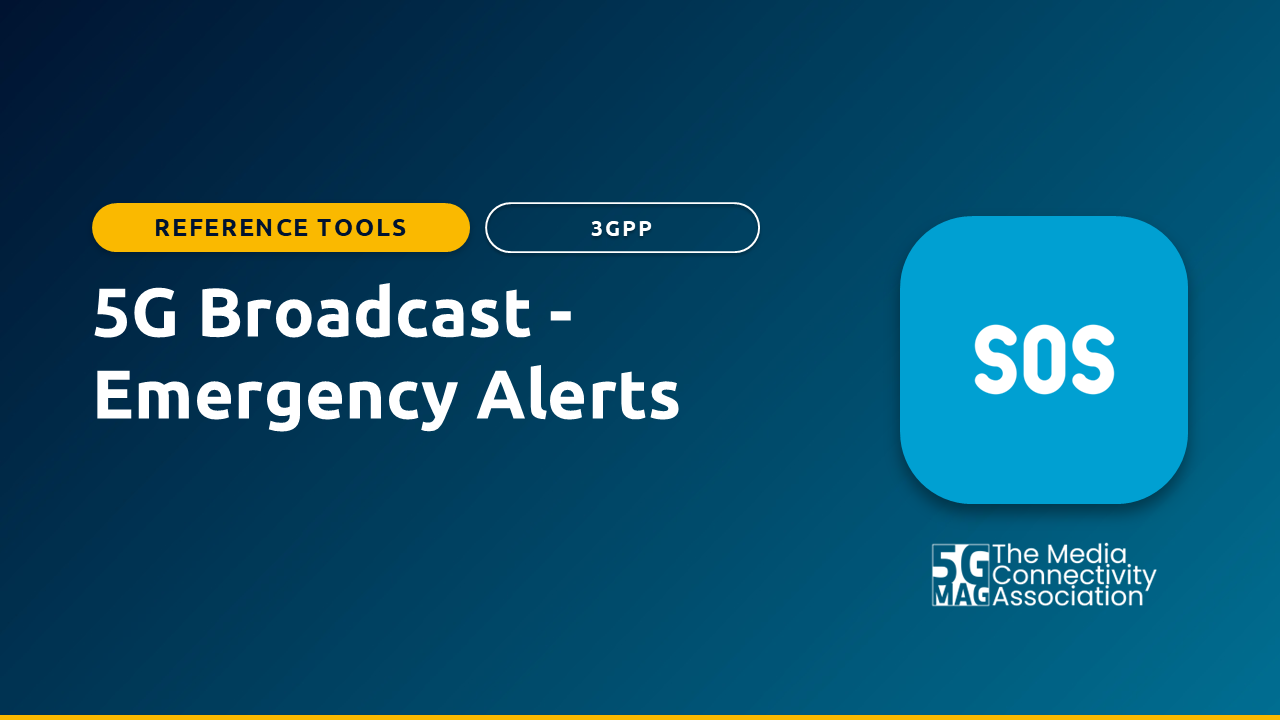
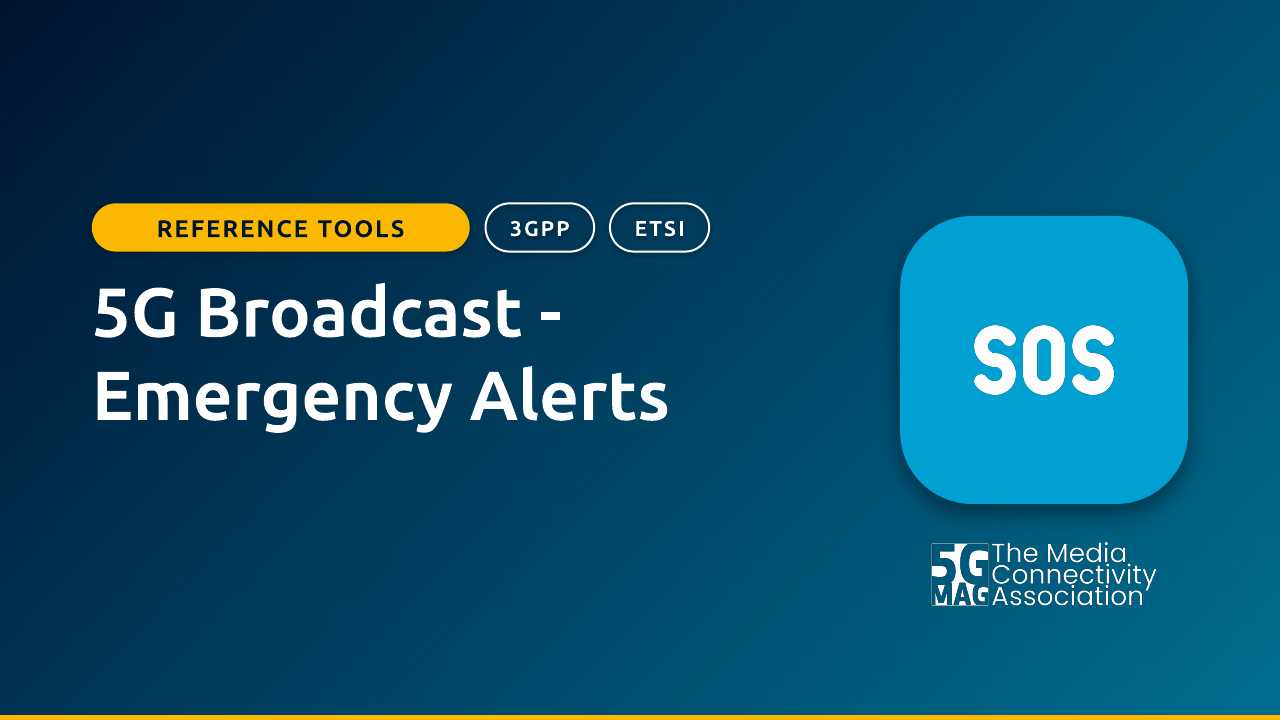
content: refresh every project's cover image and add the five missing
Problem
  The project title cards (static/assets/images/projects/<slug>.png), shown
  beside each Technology page's overview and in the homepage's release
  cards, predate the current taxonomy: "Multimedia Delivery Protocols" (old
  name), standards-body pills missing (5GMS, Avatar, DVB-I, Content
  Delivery, the three testbeds) or wrong (3GPP RAN), and old icons (Beyond
  2D, 3GPP RAN). NPN, NTN, RTC, TSC and Dynamic Mesh Coding had no card,
  and their Technology pages no cover. [code-derived: taxonomy.json name,
  sdos and icon fields against the images]

Basis
  No specification governs this. Each card is the project's cover slide in
  the 5G-MAG Complete Deck, whose name, family pill, standards-body pills
  and icon are generated from src/data/taxonomy.json.

Raised by
  User report: project images outdated or missing on the project pages.

Change
  All 22 cards re-exported at 1280x720 from that deck. multimedia.png
  renamed content-delivery.png (only taxonomy.json, releases.json and
  /tech/content-delivery referenced it). taxonomy.json gains image for the
  five projects without one; releases.json's copy of that one path updated
  so the homepage does not show a missing image before the next data run.
  NPN, NTN, RTC, TSC and Dynamic Mesh Coding pages use the same two-column
  intro with the cover as their sibling pages (text unchanged, re-indented
  only: git diff -w). Beyond 2D's Technology doc shows its cover below the
  intro.

Verification
[…]

diff --git a/src/pages/tech/ntn/index.js b/src/pages/tech/ntn/index.js
@@ -1,4 +1,5 @@
 import Link from '@docusaurus/Link';
+import useBaseUrl from '@docusaurus/useBaseUrl';
 import Layout from '@theme/Layout';
 import HubHero from '@site/src/components/HubHero';
 import ProjectDestinationCards from '@site/src/components/ProjectDestinationCards';
@@ -43,6 +44,7 @@ const SATELLITE_ICON = (
 const ACCENT = '#1a9e93';
 
 export default function NTN() {
+  const coverImg = useBaseUrl('/assets/images/projects/ntn.png');
   return (
     <Layout
       title={PROJECT_NAME}
@@ -61,33 +63,40 @@ export default function NTN() {
       <main>
         <section className={styles.section}>
           <div className="container">
-            <div style={{ maxWidth: '820px', margin: '0 auto', fontSize: '1.1rem', lineHeight: 1.7 }}>
-              <p>
-                Non-Terrestrial Networks (NTN) extend 5G coverage via satellite (geostationary GEO and
-                low Earth orbit LEO) and high-altitude platform stations (HAPS), standardised in 3GPP
-                Release 17. For media distribution, NTN is not a standalone system: it is a delivery
-                infrastructure layer on top of which existing 5G services such as MBS Multicast and MBS
-                Broadcast can be deployed. 5G-MAG&apos;s work in this area focuses on the specific
-                challenges NTN introduces: propagation delay, Doppler effects, handover between
-                satellite beams, and device mobility across terrestrial and non-terrestrial segments.
-              </p>
-              <p>
-                <strong>No dedicated reference tool exists for NTN.</strong> The 5G-MAG MBS reference
-                tools (for Multicast and Broadcast) are the relevant software for NTN deployment
-                scenarios — see{' '}
-                <Link to="/tech/5g-mbs">5G Multicast Broadcast Services (MBS)</Link>. For satellite broadcast
-                delivery using the FeMBMS (5G Broadcast) waveform, see{' '}
-                <Link to="/tech/5g-broadcast">5G Broadcast - TV and Radio Services</Link>.
-              </p>
-              {PROJECT.sdos?.length > 0 && (
-                <div className={styles.capabilityTags}>
-                  {PROJECT.sdos.map((s) => (
-                    <span key={s} className={styles.capabilityTag}>
-                      {s}
-                    </span>
-                  ))}
-                </div>
-              )}
+            <div className={styles.introGrid}>
+              <div style={{ fontSize: '1.1rem', lineHeight: 1.7 }}>
+                <p>
+                  Non-Terrestrial Networks (NTN) extend 5G coverage via satellite (geostationary GEO and
+                  low Earth orbit LEO) and high-altitude platform stations (HAPS), standardised in 3GPP
+                  Release 17. For media distribution, NTN is not a standalone system: it is a delivery
+                  infrastructure layer on top of which existing 5G services such as MBS Multicast and MBS
+                  Broadcast can be deployed. 5G-MAG&apos;s work in this area focuses on the specific
+                  challenges NTN introduces: propagation delay, Doppler effects, handover between
+                  satellite beams, and device mobility across terrestrial and non-terrestrial segments.
+                </p>
+                <p>
+                  <strong>No dedicated reference tool exists for NTN.</strong> The 5G-MAG MBS reference
+                  tools (for Multicast and Broadcast) are the relevant software for NTN deployment
+                  scenarios — see{' '}
+                  <Link to="/tech/5g-mbs">5G Multicast Broadcast Services (MBS)</Link>. For satellite broadcast
+                  delivery using the FeMBMS (5G Broadcast) waveform, see{' '}
+                  <Link to="/tech/5g-broadcast">5G Broadcast - TV and Radio Services</Link>.
+                </p>
+                {PROJECT.sdos?.length > 0 && (
+                  <div className={styles.capabilityTags}>
+                    {PROJECT.sdos.map((s) => (
+                      <span key={s} className={styles.capabilityTag}>
+                        {s}
+                      </span>
+                    ))}
+                  </div>
+                )}
+              </div>
+              <img
+                src={coverImg}
+                alt={PROJECT_NAME}
+                style={{ width: '100%', borderRadius: '16px', boxShadow: '0 12px 40px rgba(0,0,0,0.25)' }}
+              />
             </div>
             <div className={styles.whyMattersBlock}>
               <h3 className={styles.whyMattersTitle}>The Problem It Solves</h3>

diff --git a/src/pages/tech/npn/index.js b/src/pages/tech/npn/index.js
@@ -1,4 +1,5 @@
 import Link from '@docusaurus/Link';
+import useBaseUrl from '@docusaurus/useBaseUrl';
 import Layout from '@theme/Layout';
 import HubHero from '@site/src/components/HubHero';
 import ProjectDestinationCards from '@site/src/components/ProjectDestinationCards';
@@ -60,6 +61,7 @@ const MODEL_COMPARISON = [
 ];
 
 export default function NPN() {
+  const coverImg = useBaseUrl('/assets/images/projects/npn.png');
   return (
     <Layout
       title={PROJECT_NAME}
@@ -78,32 +80,39 @@ export default function NPN() {
       <main>
         <section className={styles.section}>
           <div className="container">
-            <div style={{ maxWidth: '860px', margin: '0 auto', fontSize: '1.1rem', lineHeight: 1.7 }}>
-              <p>
-                Non-Public Networks (NPNs) are private 5G deployments operated for a specific
-                organisation or use case, defined in 3GPP Release 16. In media production, NPNs
-                allow broadcasters to deploy dedicated 5G infrastructure for live production
-                workflows, replacing legacy contribution links (satellite, ISDN, fibre) with a
-                programmable, low-latency wireless fabric. 5G-MAG&apos;s work covers deployment
-                models, spectrum access strategies, User Equipment (UE) registration and
-                on-boarding, and the specific requirements of live production environments such as
-                time-sensitive communications.
-              </p>
-              <p>
-                <strong>No dedicated reference tool exists for NPN.</strong> This area is
-                documented through the analysis below. Live production over an NPN often needs
-                deterministic timing, so for time-sensitive media transport over NPNs see also{' '}
-                <Link to="/tech/tsc">Time-Sensitive Communications (TSC)</Link>.
-              </p>
-              {PROJECT.sdos?.length > 0 && (
-                <div className={styles.capabilityTags}>
-                  {PROJECT.sdos.map((s) => (
-                    <span key={s} className={styles.capabilityTag}>
-                      {s}
-                    </span>
-                  ))}
-                </div>
-              )}
+            <div className={styles.introGrid}>
+              <div style={{ fontSize: '1.1rem', lineHeight: 1.7 }}>
+                <p>
+                  Non-Public Networks (NPNs) are private 5G deployments operated for a specific
+                  organisation or use case, defined in 3GPP Release 16. In media production, NPNs
+                  allow broadcasters to deploy dedicated 5G infrastructure for live production
+                  workflows, replacing legacy contribution links (satellite, ISDN, fibre) with a
+                  programmable, low-latency wireless fabric. 5G-MAG&apos;s work covers deployment
+                  models, spectrum access strategies, User Equipment (UE) registration and
+                  on-boarding, and the specific requirements of live production environments such as
+                  time-sensitive communications.
+                </p>
+                <p>
+                  <strong>No dedicated reference tool exists for NPN.</strong> This area is
+                  documented through the analysis below. Live production over an NPN often needs
+                  deterministic timing, so for time-sensitive media transport over NPNs see also{' '}
+                  <Link to="/tech/tsc">Time-Sensitive Communications (TSC)</Link>.
+                </p>
+                {PROJECT.sdos?.length > 0 && (
+                  <div className={styles.capabilityTags}>
+                    {PROJECT.sdos.map((s) => (
+                      <span key={s} className={styles.capabilityTag}>
+                        {s}
+                      </span>
+                    ))}
+                  </div>
+                )}
+              </div>
+              <img
+                src={coverImg}
+                alt={PROJECT_NAME}
+                style={{ width: '100%', borderRadius: '16px', boxShadow: '0 12px 40px rgba(0,0,0,0.25)' }}
+              />
             </div>
             <div className={styles.whyMattersBlock}>
               <h3 className={styles.whyMattersTitle}>The Problem It Solves</h3>

diff --git a/src/pages/tech/vdmc/index.js b/src/pages/tech/vdmc/index.js
@@ -1,4 +1,5 @@
 import Link from '@docusaurus/Link';
+import useBaseUrl from '@docusaurus/useBaseUrl';
 import Layout from '@theme/Layout';
 import HubHero from '@site/src/components/HubHero';
 import ProjectDestinationCards from '@site/src/components/ProjectDestinationCards';
@@ -48,6 +49,7 @@ const ICOSAHEDRON_ICON = (
 const ACCENT = '#8355c7';
 
 export default function VDMC() {
+  const coverImg = useBaseUrl('/assets/images/projects/vdmc.png');
   return (
     <Layout
       title={PROJECT_NAME}
@@ -66,31 +68,38 @@ export default function VDMC() {
       <main>
         <section className={styles.section}>
           <div className="container">
-            <div style={{ fontSize: '1.1rem', lineHeight: 1.7, maxWidth: '54rem' }}>
-              <p>
-                Dynamic Mesh Coding (V-DMC, Video-based Dynamic Mesh Coding, ISO/IEC 23090-29) is an
-                MPEG standard from ISO/IEC JTC 1/SC 29/WG 7 (Coding of 3D Graphics and Haptics) for
-                compressing 3D meshes whose geometry, connectivity and attributes change per frame --
-                for example animated avatars, characters or performance-capture content. Rather than
-                coding a mesh&apos;s full geometry directly, V-DMC reduces each frame to a simplified
-                &quot;basemesh&quot; (a connectivity structure that may itself change per frame) plus
-                per-frame displacement offsets that refine the geometry, along with a texture atlas,
-                and then reuses existing video codecs (HEVC, VVC) to compress that data.
-              </p>
-              <p>
-                This differs from <Link to="/tech/v3c">MPEG V3C Immersive Platform</Link>, which is
-                point-cloud based; V-DMC targets well-parameterized mesh surfaces where point-cloud
-                methods are less efficient.
-              </p>
-              {PROJECT.sdos?.length > 0 && (
-                <div className={styles.capabilityTags}>
-                  {PROJECT.sdos.map((s) => (
-                    <span key={s} className={styles.capabilityTag}>
-                      {s}
-                    </span>
-                  ))}
-                </div>
-              )}
+            <div className={styles.introGrid}>
+              <div style={{ fontSize: '1.1rem', lineHeight: 1.7 }}>
+                <p>
+                  Dynamic Mesh Coding (V-DMC, Video-based Dynamic Mesh Coding, ISO/IEC 23090-29) is an
+                  MPEG standard from ISO/IEC JTC 1/SC 29/WG 7 (Coding of 3D Graphics and Haptics) for
+                  compressing 3D meshes whose geometry, connectivity and attributes change per frame --
+                  for example animated avatars, characters or performance-capture content. Rather than
+                  coding a mesh&apos;s full geometry directly, V-DMC reduces each frame to a simplified
+                  &quot;basemesh&quot; (a connectivity structure that may itself change per frame) plus
+                  per-frame displacement offsets that refine the geometry, along with a texture atlas,
+                  and then reuses existing video codecs (HEVC, VVC) to compress that data.
+                </p>
+                <p>
+                  This differs from <Link to="/tech/v3c">MPEG V3C Immersive Platform</Link>, which is
+                  point-cloud based; V-DMC targets well-parameterized mesh surfaces where point-cloud
+                  methods are less efficient.
+                </p>
+                {PROJECT.sdos?.length > 0 && (
+                  <div className={styles.capabilityTags}>
+                    {PROJECT.sdos.map((s) => (
+                      <span key={s} className={styles.capabilityTag}>
+                        {s}
+                      </span>
+                    ))}
+                  </div>
+                )}
+              </div>
+              <img
+                src={coverImg}
+                alt={PROJECT_NAME}
+                style={{ width: '100%', borderRadius: '16px', boxShadow: '0 12px 40px rgba(0,0,0,0.25)' }}
+              />
             </div>
             <div className={styles.whyMattersBlock}>
               <h3 className={styles.whyMattersTitle}>The Problem It Solves</h3>

diff --git a/src/pages/tech/tsc/index.js b/src/pages/tech/tsc/index.js
@@ -1,4 +1,5 @@
 import Link from '@docusaurus/Link';
+import useBaseUrl from '@docusaurus/useBaseUrl';
 import Layout from '@theme/Layout';
 import HubHero from '@site/src/components/HubHero';
 import ProjectDestinationCards from '@site/src/components/ProjectDestinationCards';
@@ -62,6 +63,7 @@ const RELEASE_TIMELINE = [
 ];
 
 export default function TSC() {
+  const coverImg = useBaseUrl('/assets/images/projects/tsc.png');
   return (
     <Layout
       title={PROJECT_NAME}
@@ -80,28 +82,35 @@ export default function TSC() {
       <main>
         <section className={styles.section}>
           <div className="container">
-            <div style={{ fontSize: '1.1rem', lineHeight: 1.7, maxWidth: '860px' }}>
-              <p>
-                Time Sensitive Communications (TSC) covers the 3GPP features that let a 5G network
-                carry traffic with bounded, predictable latency and tight timing, rather than
-                best-effort delivery. In media production this matters for live workflows, for
-                example synchronising cameras, audio and control signals over a wireless link where
-                jitter and timing drift are not acceptable.
-              </p>
-              <p>
-                5G-MAG tracks how these deterministic-delivery capabilities apply to professional
-                media, in particular over the <Link to="/tech/npn">Non-Public Networks</Link> that
-                broadcasters use for on-site production.
-              </p>
-              {PROJECT.sdos?.length > 0 && (
-                <div className={styles.capabilityTags}>
-                  {PROJECT.sdos.map((s) => (
-                    <span key={s} className={styles.capabilityTag}>
-                      {s}
-                    </span>
-                  ))}
-                </div>
-              )}
+            <div className={styles.introGrid}>
+              <div style={{ fontSize: '1.1rem', lineHeight: 1.7 }}>
+                <p>
+                  Time Sensitive Communications (TSC) covers the 3GPP features that let a 5G network
+                  carry traffic with bounded, predictable latency and tight timing, rather than
+                  best-effort delivery. In media production this matters for live workflows, for
+                  example synchronising cameras, audio and control signals over a wireless link where
+                  jitter and timing drift are not acceptable.
+                </p>
+                <p>
+                  5G-MAG tracks how these deterministic-delivery capabilities apply to professional
+                  media, in particular over the <Link to="/tech/npn">Non-Public Networks</Link> that
+                  broadcasters use for on-site production.
+                </p>
+                {PROJECT.sdos?.length > 0 && (
+                  <div className={styles.capabilityTags}>
+                    {PROJECT.sdos.map((s) => (
+                      <span key={s} className={styles.capabilityTag}>
+                        {s}
+                      </span>
+                    ))}
+                  </div>
+                )}
+              </div>
+              <img
+                src={coverImg}
+                alt={PROJECT_NAME}
+                style={{ width: '100%', borderRadius: '16px', boxShadow: '0 12px 40px rgba(0,0,0,0.25)' }}
+              />
             </div>
             <div className={styles.whyMattersBlock}>
               <h3 className={styles.whyMattersTitle}>The Problem It Solves</h3>

diff --git a/src/pages/tech/rtc/index.js b/src/pages/tech/rtc/index.js
@@ -1,4 +1,5 @@
 import Link from '@docusaurus/Link';
+import useBaseUrl from '@docusaurus/useBaseUrl';
 import Layout from '@theme/Layout';
 import HubHero from '@site/src/components/HubHero';
 import ProjectDestinationCards from '@site/src/components/ProjectDestinationCards';
@@ -47,6 +48,7 @@ const WEBRTC_ARROWS_ICON = (
 const ACCENT = '#4f63d6';
 
 export default function RTC() {
+  const coverImg = useBaseUrl('/assets/images/projects/rtc.png');
   return (
     <Layout
       title={PROJECT_NAME}
@@ -65,23 +67,30 @@ export default function RTC() {
       <main>
         <section className={styles.section}>
           <div className="container">
-            <div style={{ maxWidth: '860px', margin: '0 auto', fontSize: '1.1rem', lineHeight: 1.7 }}>
-              <p>
-                Real-Time Communications (RTC) covers the 3GPP work on interactive, low-latency media
-                such as conversational audio and video, immersive calls and interactive streaming,
-                where the round-trip delay must stay low enough for two-way interaction. It builds on
-                the uplink side of 5G Media Streaming (5GMSu) and related delivery functions. 5G-MAG
-                tracks how these capabilities support real-time media services over 5G.
-              </p>
-              {PROJECT.sdos?.length > 0 && (
-                <div className={styles.capabilityTags}>
-                  {PROJECT.sdos.map((s) => (
-                    <span key={s} className={styles.capabilityTag}>
-                      {s}
-                    </span>
-                  ))}
-                </div>
-              )}
+            <div className={styles.introGrid}>
+              <div style={{ fontSize: '1.1rem', lineHeight: 1.7 }}>
+                <p>
+                  Real-Time Communications (RTC) covers the 3GPP work on interactive, low-latency media
+                  such as conversational audio and video, immersive calls and interactive streaming,
+                  where the round-trip delay must stay low enough for two-way interaction. It builds on
+                  the uplink side of 5G Media Streaming (5GMSu) and related delivery functions. 5G-MAG
+                  tracks how these capabilities support real-time media services over 5G.
+                </p>
+                {PROJECT.sdos?.length > 0 && (
+                  <div className={styles.capabilityTags}>
+                    {PROJECT.sdos.map((s) => (
+                      <span key={s} className={styles.capabilityTag}>
+                        {s}
+                      </span>
+                    ))}
+                  </div>
+                )}
+              </div>
+              <img
+                src={coverImg}
+                alt={PROJECT_NAME}
+                style={{ width: '100%', borderRadius: '16px', boxShadow: '0 12px 40px rgba(0,0,0,0.25)' }}
+              />
             </div>
             <div className={styles.whyMattersBlock}>
               <h3 className={styles.whyMattersTitle}>The Problem It Solves</h3>

diff --git a/src/pages/tech/content-delivery/index.js b/src/pages/tech/content-delivery/index.js
@@ -52,7 +52,7 @@ const FLUTE_VS_ROUTE = [
 ];
 
 export default function ContentDelivery() {
-  const coverImg = useBaseUrl('/assets/images/projects/multimedia.png');
+  const coverImg = useBaseUrl('/assets/images/projects/content-delivery.png');
   return (
     <Layout
       title={PROJECT_NAME}
